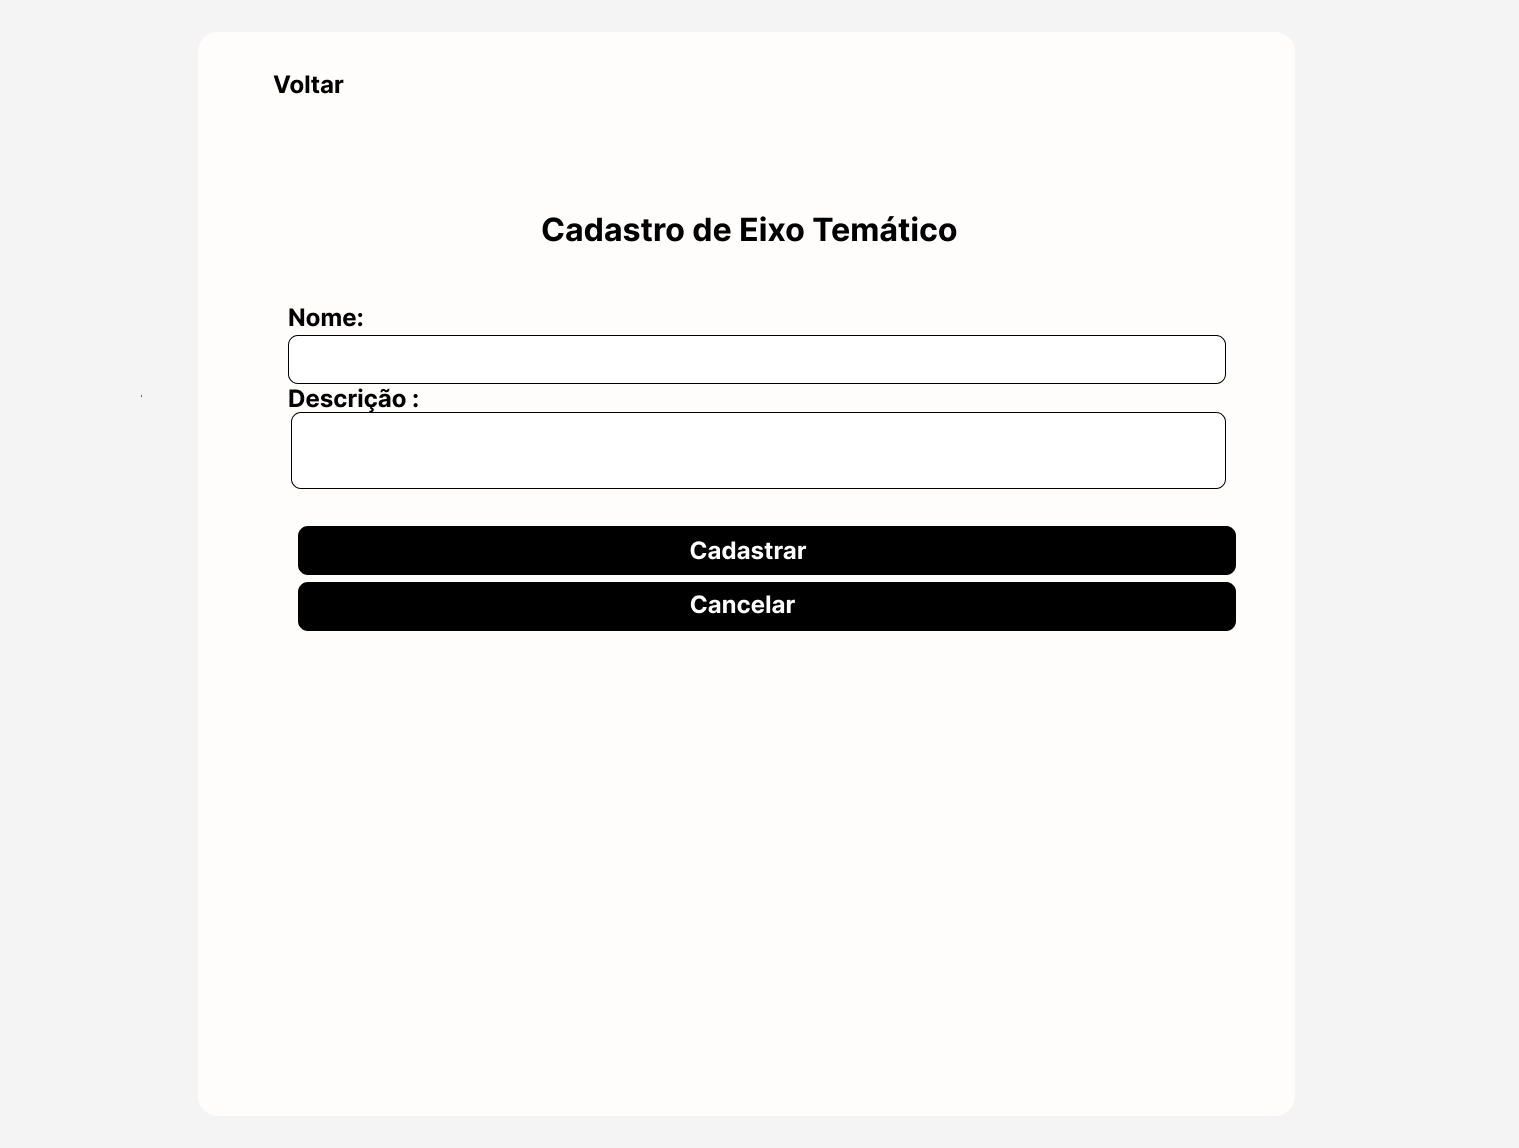
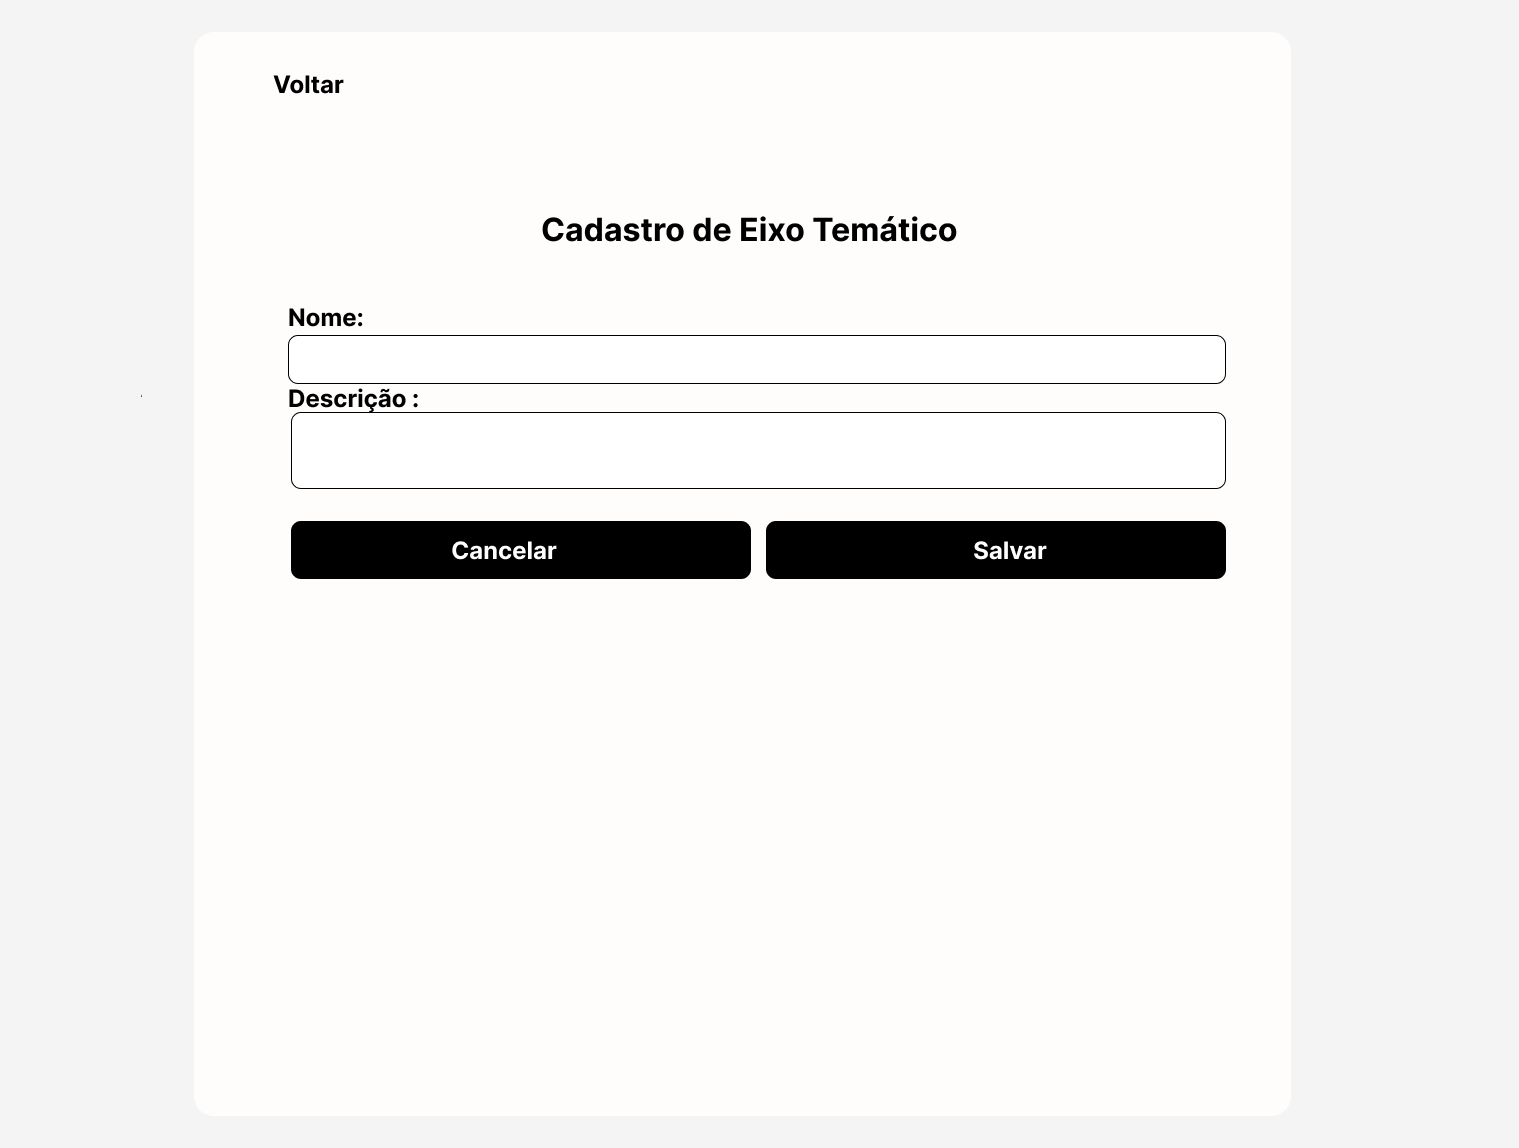
feito alteraçoes

Changed region(s): [[0.1856, 0.4268, 0.8354, 0.5488]]

diff --git a/src/organizador/cadastro_evento/cadastro.php b/src/organizador/cadastro_evento/cadastro.php
@@ -85,7 +85,7 @@
 
             <div class="button-group">
                 <button type="submit">Cancelar</button>
-                <button type="reset">Cadastrar</button>
+                <button type="reset">Salva</button>
             </div>
         </form>
     </div>
